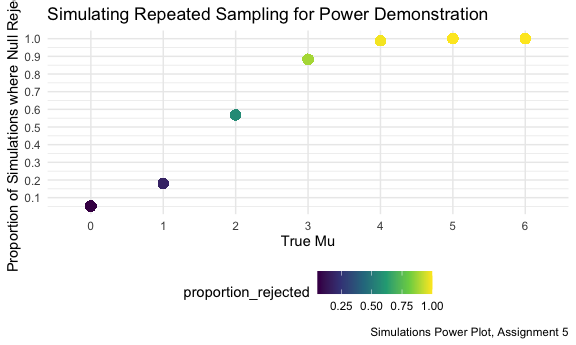
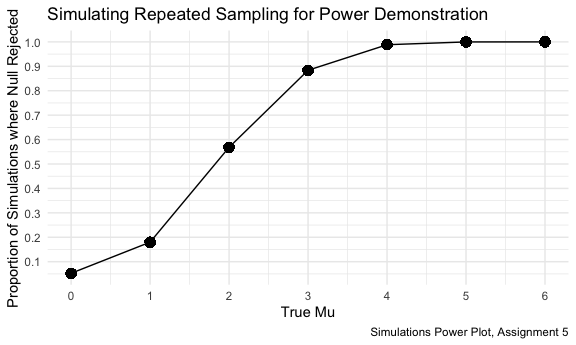
editing graphs for clarity in regards to reference line

diff --git a/p8105_hw5_eh2928.md b/p8105_hw5_eh2928.md
@@ -240,17 +240,22 @@ sim_results =
 ```
 
 ``` r
-sim_results %>% 
+sim_results =
+  sim_results %>% 
   group_by(true_mu) %>% 
   mutate(
     tests_total = n(),
     null_rejected = sum(p_value < 0.05),
     proportion_rejected = (null_rejected / tests_total),
-    true_mu = as.factor(true_mu)
+    true_mu = as.numeric(true_mu)
   ) %>% 
-  arrange(desc(proportion_rejected)) %>% 
-  ggplot(aes(x = true_mu, y = proportion_rejected, color = proportion_rejected, group = true_mu)) + 
+  arrange(desc(proportion_rejected))
+  
+sim_results %>% 
+  ggplot(aes(x = true_mu, y = proportion_rejected, group = true_mu)) + 
   geom_point(alpha = 1, size = 3) +
+  geom_line(aes(group = 1)) +
+  scale_x_continuous(breaks = seq(0, 6, 1)) +
   scale_y_continuous(breaks = seq(0, 1, 0.1)) +
   labs(
     title = "Simulating Repeated Sampling for Power Demonstration",
@@ -272,11 +277,12 @@ sim_results %>%
   group_by(true_mu) %>% 
   mutate(
     estimate_mean = mean(mu_hat),
-    true_mu = as.factor(true_mu)
+    true_mu = as.numeric(true_mu)
   ) %>% 
   arrange(desc(estimate_mean)) %>% 
-  ggplot(aes(x = true_mu, y = estimate_mean, color = true_mu, group = true_mu)) + 
+  ggplot(aes(x = true_mu, y = estimate_mean, group = true_mu, color = true_mu)) + 
   geom_point(alpha = 1, size = 3) +
+  geom_abline(aes(slope = 1, intercept = 0)) +
   scale_y_continuous(breaks = seq(0, 7, 1)) +
   labs(
     title = "Estimating the Value of Mu via Repeated Sampling",
@@ -297,11 +303,12 @@ sim_results %>%
   filter(p_value < 0.05) %>% 
   mutate(
     estimate_mean = mean(mu_hat),
-    true_mu = as.factor(true_mu)
+    true_mu = as.numeric(true_mu)
   ) %>% 
   arrange(desc(estimate_mean)) %>% 
   ggplot(aes(x = true_mu, y = estimate_mean, color = true_mu, group = true_mu)) + 
   geom_point(alpha = 1, size = 3) +
+  geom_abline(aes(slope = 1, intercept = 0)) +
   scale_y_continuous(breaks = seq(0, 7, .5)) +
   labs(
     title = "Estimating the Value of Mu via Repeated Sampling",
